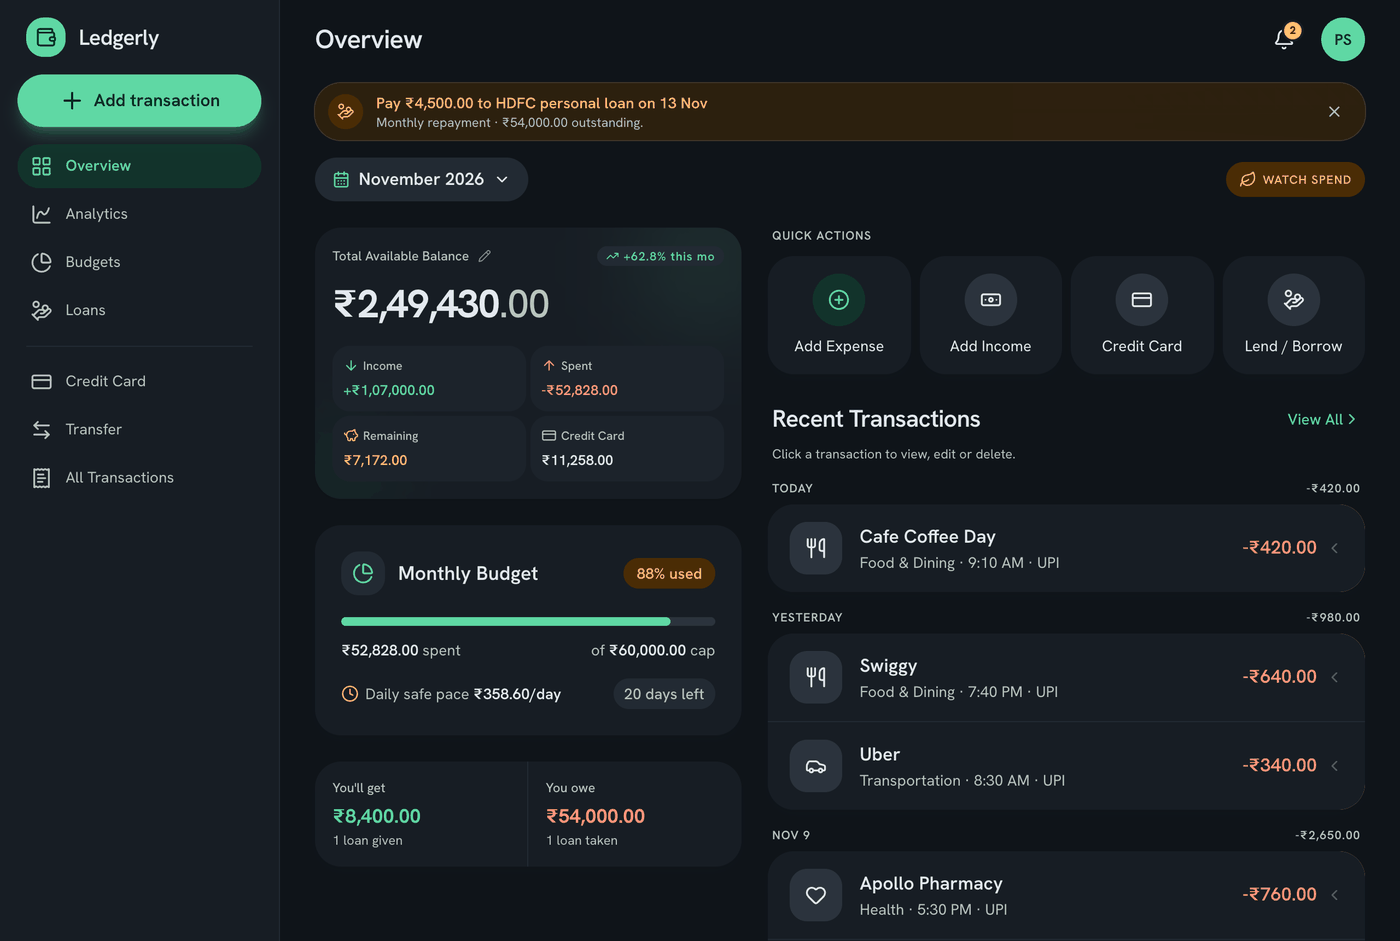
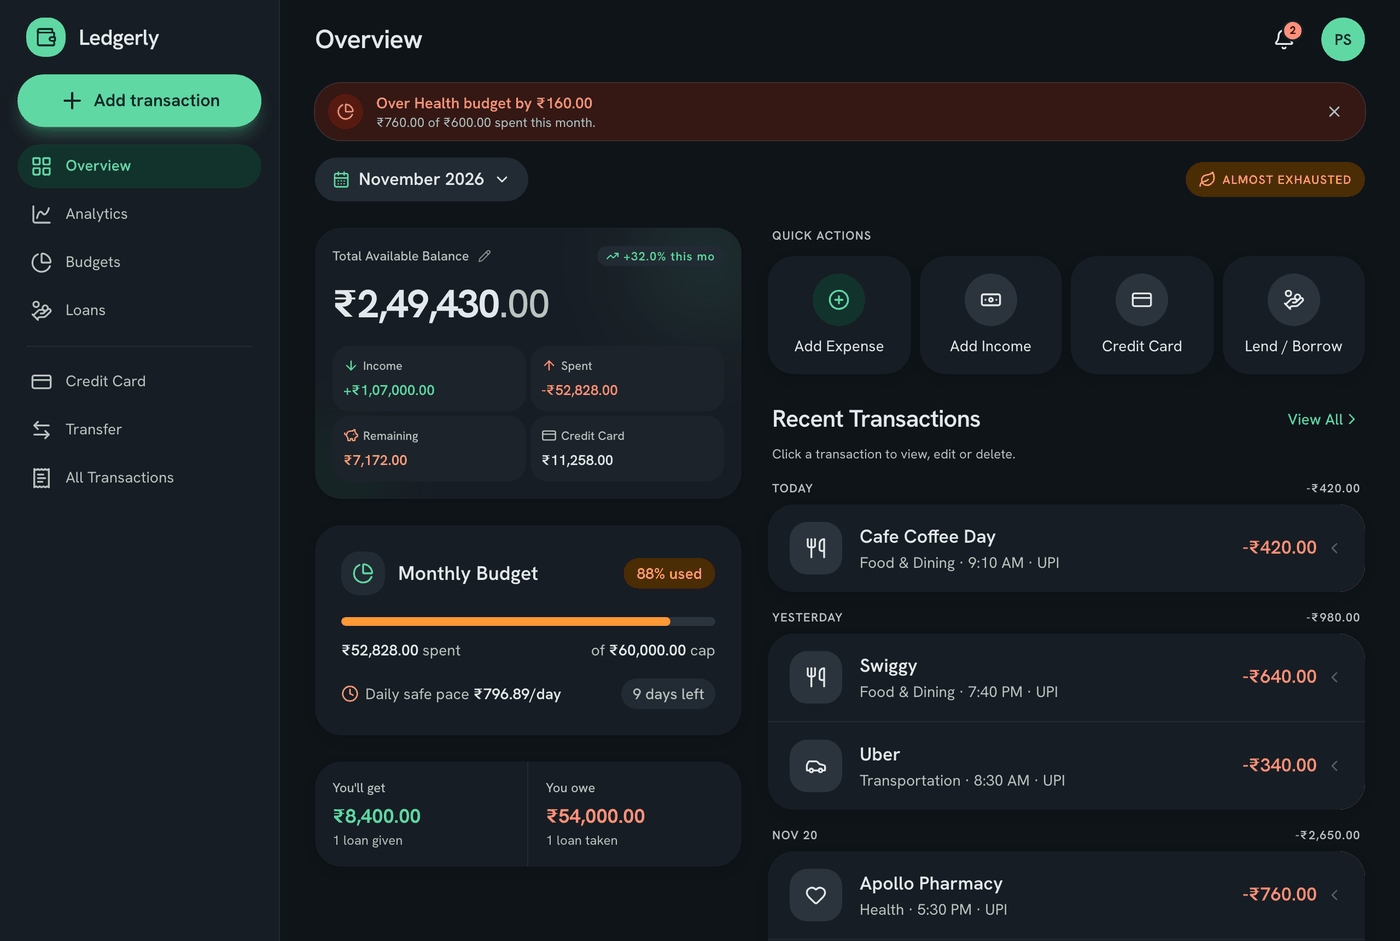
Overview: keep budget pills on one line on phones; retake budget screenshots
The longer status wording ("Almost exhausted") wrapped and squeezed the
month pill on phones. Both pills now stay on one line, the leaf icon hides
below 420px and the row wraps at very narrow widths (no sideways scroll at
320px). Screenshots retaken to show the four-level budget colours.

diff --git a/src/app/(app)/page.tsx b/src/app/(app)/page.tsx
@@ -94,13 +94,13 @@ export default function Dashboard() {
     <>
       <AppHeader subtitle="Overview" />
       <TabPage>
-        <div className="flex items-center justify-between">
+        <div className="flex flex-wrap items-center justify-between gap-2">
           <MonthPill label={monthLabel()} />
           {limit > 0 && (
             <span
-              className={`label-caps flex items-center gap-1.5 rounded-full px-3 py-2 ${budgetStyle[level].pill}`}
+              className={`label-caps flex min-w-0 items-center gap-1.5 whitespace-nowrap rounded-full px-3 py-2 ${budgetStyle[level].pill}`}
             >
-              <Leaf className="size-4" aria-hidden />{" "}
+              <Leaf className="hidden size-4 min-[420px]:block" aria-hidden />{" "}
               {budgetStatus(used)}
             </span>
           )}

diff --git a/src/components/ui.tsx b/src/components/ui.tsx
@@ -115,7 +115,7 @@ export function RowHint({ noun, actions, className = "" }: { noun: string; actio
 
 export function MonthPill({ label }: { label: string }) {
   return (
-    <button className="flex items-center gap-2 rounded-full bg-surface-container px-4 py-2 font-semibold">
+    <button className="flex shrink-0 items-center gap-2 whitespace-nowrap rounded-full bg-surface-container px-4 py-2 font-semibold">
       <CalendarDays className="size-4 text-primary" aria-hidden />
       {label}
       <ChevronDown className="size-4" aria-hidden />
